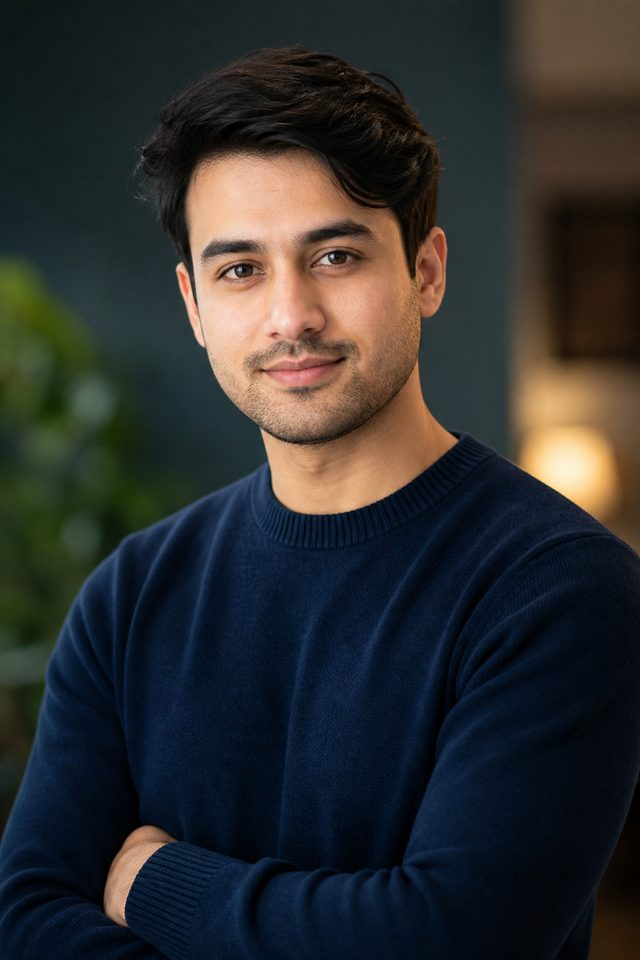
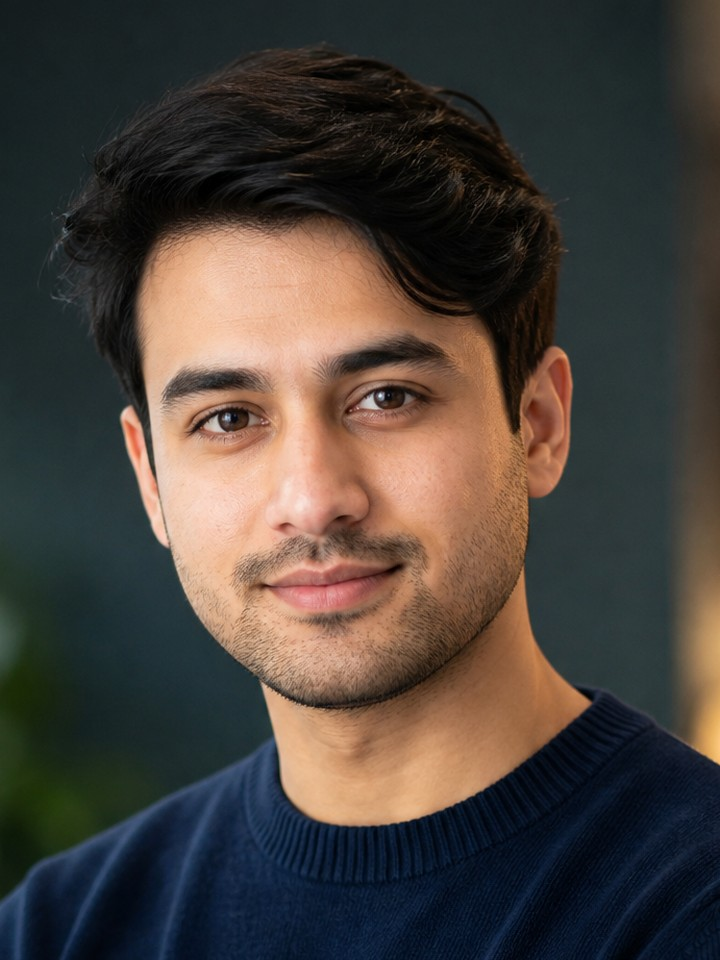
Show only Navyan Baig on About core team.
Remove Manzoor Ahmad, set Navyan as Web Developer with a short bio,
use a professional headshot crop, and center the single-member team grid.

diff --git a/giga-class-market/theme/giga-class-market/assets/css/main.css b/giga-class-market/theme/giga-class-market/assets/css/main.css
@@ -1282,6 +1282,10 @@ html[data-theme="dark"] .gcm-benefit-card__icon {
 	gap: clamp(1.5rem, 3vw, 2.5rem);
 }
 
+.gcm-team-grid--single {
+	grid-template-columns: minmax(0, 360px);
+}
+
 .gcm-team-card {
 	background: var(--gcm-surface);
 	border: 1px solid var(--gcm-border);
@@ -1307,6 +1311,7 @@ html[data-theme="dark"] .gcm-benefit-card__icon {
 	width: 100%;
 	height: 100%;
 	object-fit: cover;
+	object-position: center 18%;
 	display: block;
 	transition: transform 420ms ease;
 }

diff --git a/giga-class-market/theme/giga-class-market/style.css b/giga-class-market/theme/giga-class-market/style.css
@@ -4,7 +4,7 @@ Theme URI: https://example.com/giga-class-market
 Author: Giga Class Market
 Author URI: https://example.com
 Description: A premium luxury-tech education marketplace theme for course discovery, student learning, and digital enrollment.
-Version: 1.7.8
+Version: 1.7.9
 Requires at least: 6.0
 Tested up to: 6.6
 Requires PHP: 7.4

diff --git a/giga-class-market/theme/giga-class-market/page-templates/template-about.php b/giga-class-market/theme/giga-class-market/page-templates/template-about.php
@@ -41,15 +41,9 @@ $about_cards = array(
 $team_uri = trailingslashit( GCM_THEME_URI ) . 'assets/images/team/';
 $core_team = array(
 	array(
-		'name'  => __( 'Manzoor Ahmad', 'giga-class-market' ),
-		'role'  => __( 'Lecturer', 'giga-class-market' ),
-		'bio'   => __( 'An experienced lecturer focused on clear teaching, practical skills, and helping students build confidence through structured live classes.', 'giga-class-market' ),
-		'photo' => $team_uri . 'manzoor-ahmad.jpg',
-	),
-	array(
 		'name'  => __( 'Navyan Baig', 'giga-class-market' ),
 		'role'  => __( 'Web Developer', 'giga-class-market' ),
-		'bio'   => __( 'Web developer building and refining the Giga Class Market platform so students, teachers, and admins enjoy a smooth, reliable learning experience.', 'giga-class-market' ),
+		'bio'   => __( 'Navyan builds and maintains the Giga Class Market web platform — from course pages and student dashboards to smooth enrollment and payment flows — so learners get a fast, reliable experience.', 'giga-class-market' ),
 		'photo' => $team_uri . 'navyan-baig.jpg',
 	),
 );
@@ -106,17 +100,17 @@ $core_team = array(
 		<header class="gcm-section__header gcm-section__header--center gcm-animate">
 			<p class="gcm-eyebrow"><?php esc_html_e( 'Our people', 'giga-class-market' ); ?></p>
 			<h2 id="gcm-core-team-heading"><?php esc_html_e( 'Meet Our Core Team', 'giga-class-market' ); ?></h2>
-			<p><?php esc_html_e( 'The educators and builders guiding Giga Class Market every day.', 'giga-class-market' ); ?></p>
+			<p><?php esc_html_e( 'The builder behind a smooth Giga Class Market experience.', 'giga-class-market' ); ?></p>
 		</header>
-		<div class="gcm-team-grid">
+		<div class="gcm-team-grid gcm-team-grid--single">
 			<?php foreach ( $core_team as $index => $member ) : ?>
 				<article class="gcm-team-card gcm-animate" style="--gcm-delay: <?php echo esc_attr( ( $index + 1 ) * 0.1 ); ?>s">
 					<div class="gcm-team-card__photo">
 						<img
 							src="<?php echo esc_url( $member['photo'] ); ?>"
 							alt="<?php echo esc_attr( $member['name'] ); ?>"
-							width="480"
-							height="640"
+							width="720"
+							height="960"
 							loading="lazy"
 							decoding="async"
 						>

diff --git a/giga-class-market/theme/giga-class-market/functions.php b/giga-class-market/theme/giga-class-market/functions.php
@@ -9,7 +9,7 @@ if ( ! defined( 'ABSPATH' ) ) {
 	exit;
 }
 
-define( 'GCM_THEME_VERSION', '1.7.8' );
+define( 'GCM_THEME_VERSION', '1.7.9' );
 define( 'GCM_THEME_DIR', get_template_directory() );
 define( 'GCM_THEME_URI', get_template_directory_uri() );
 
